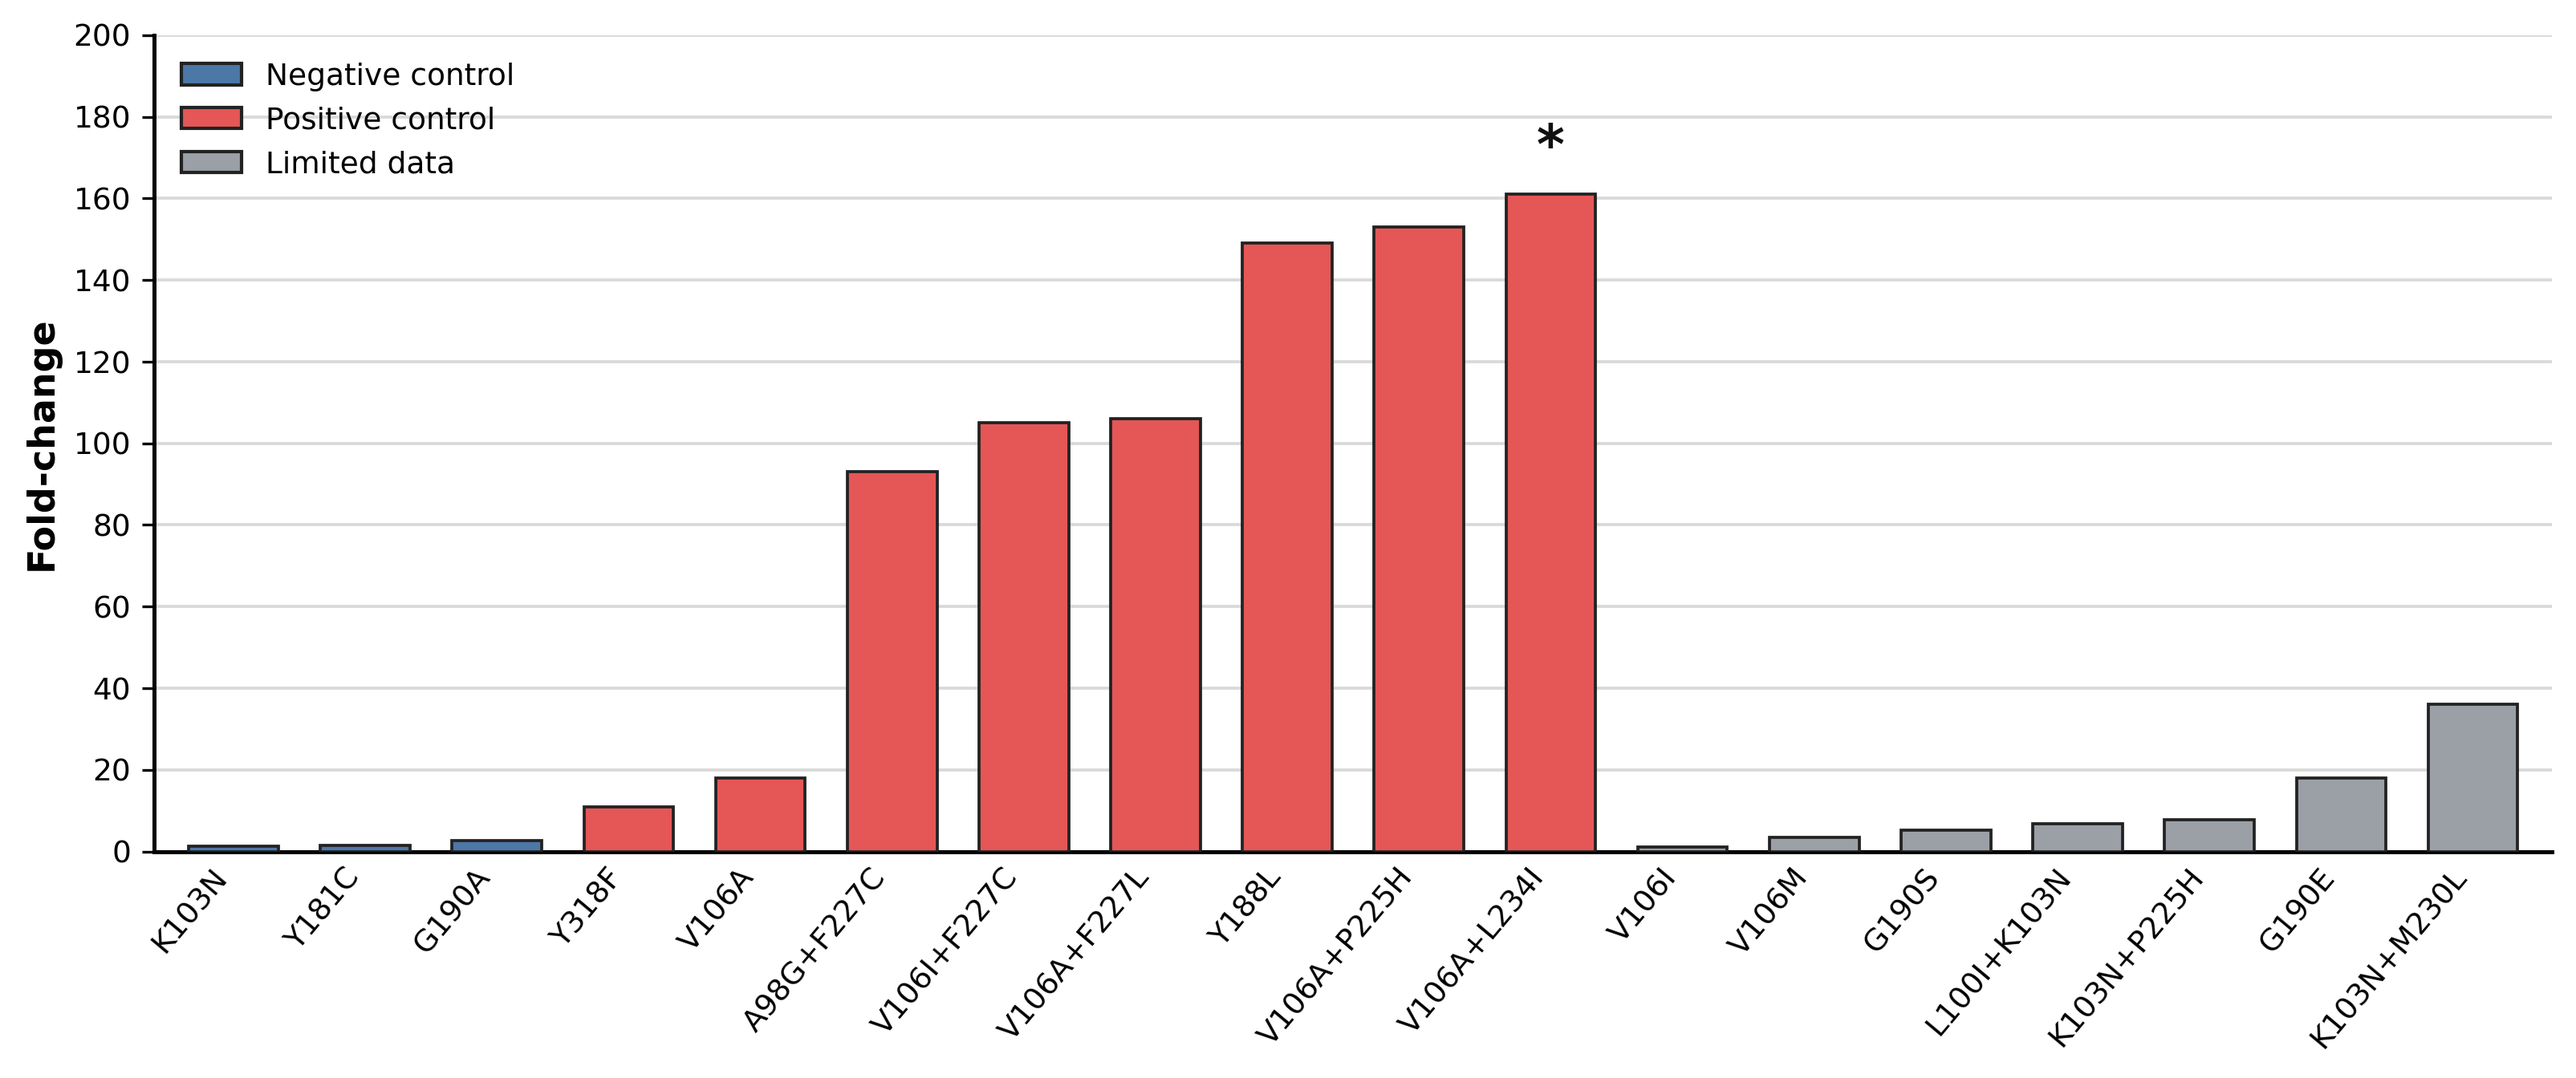
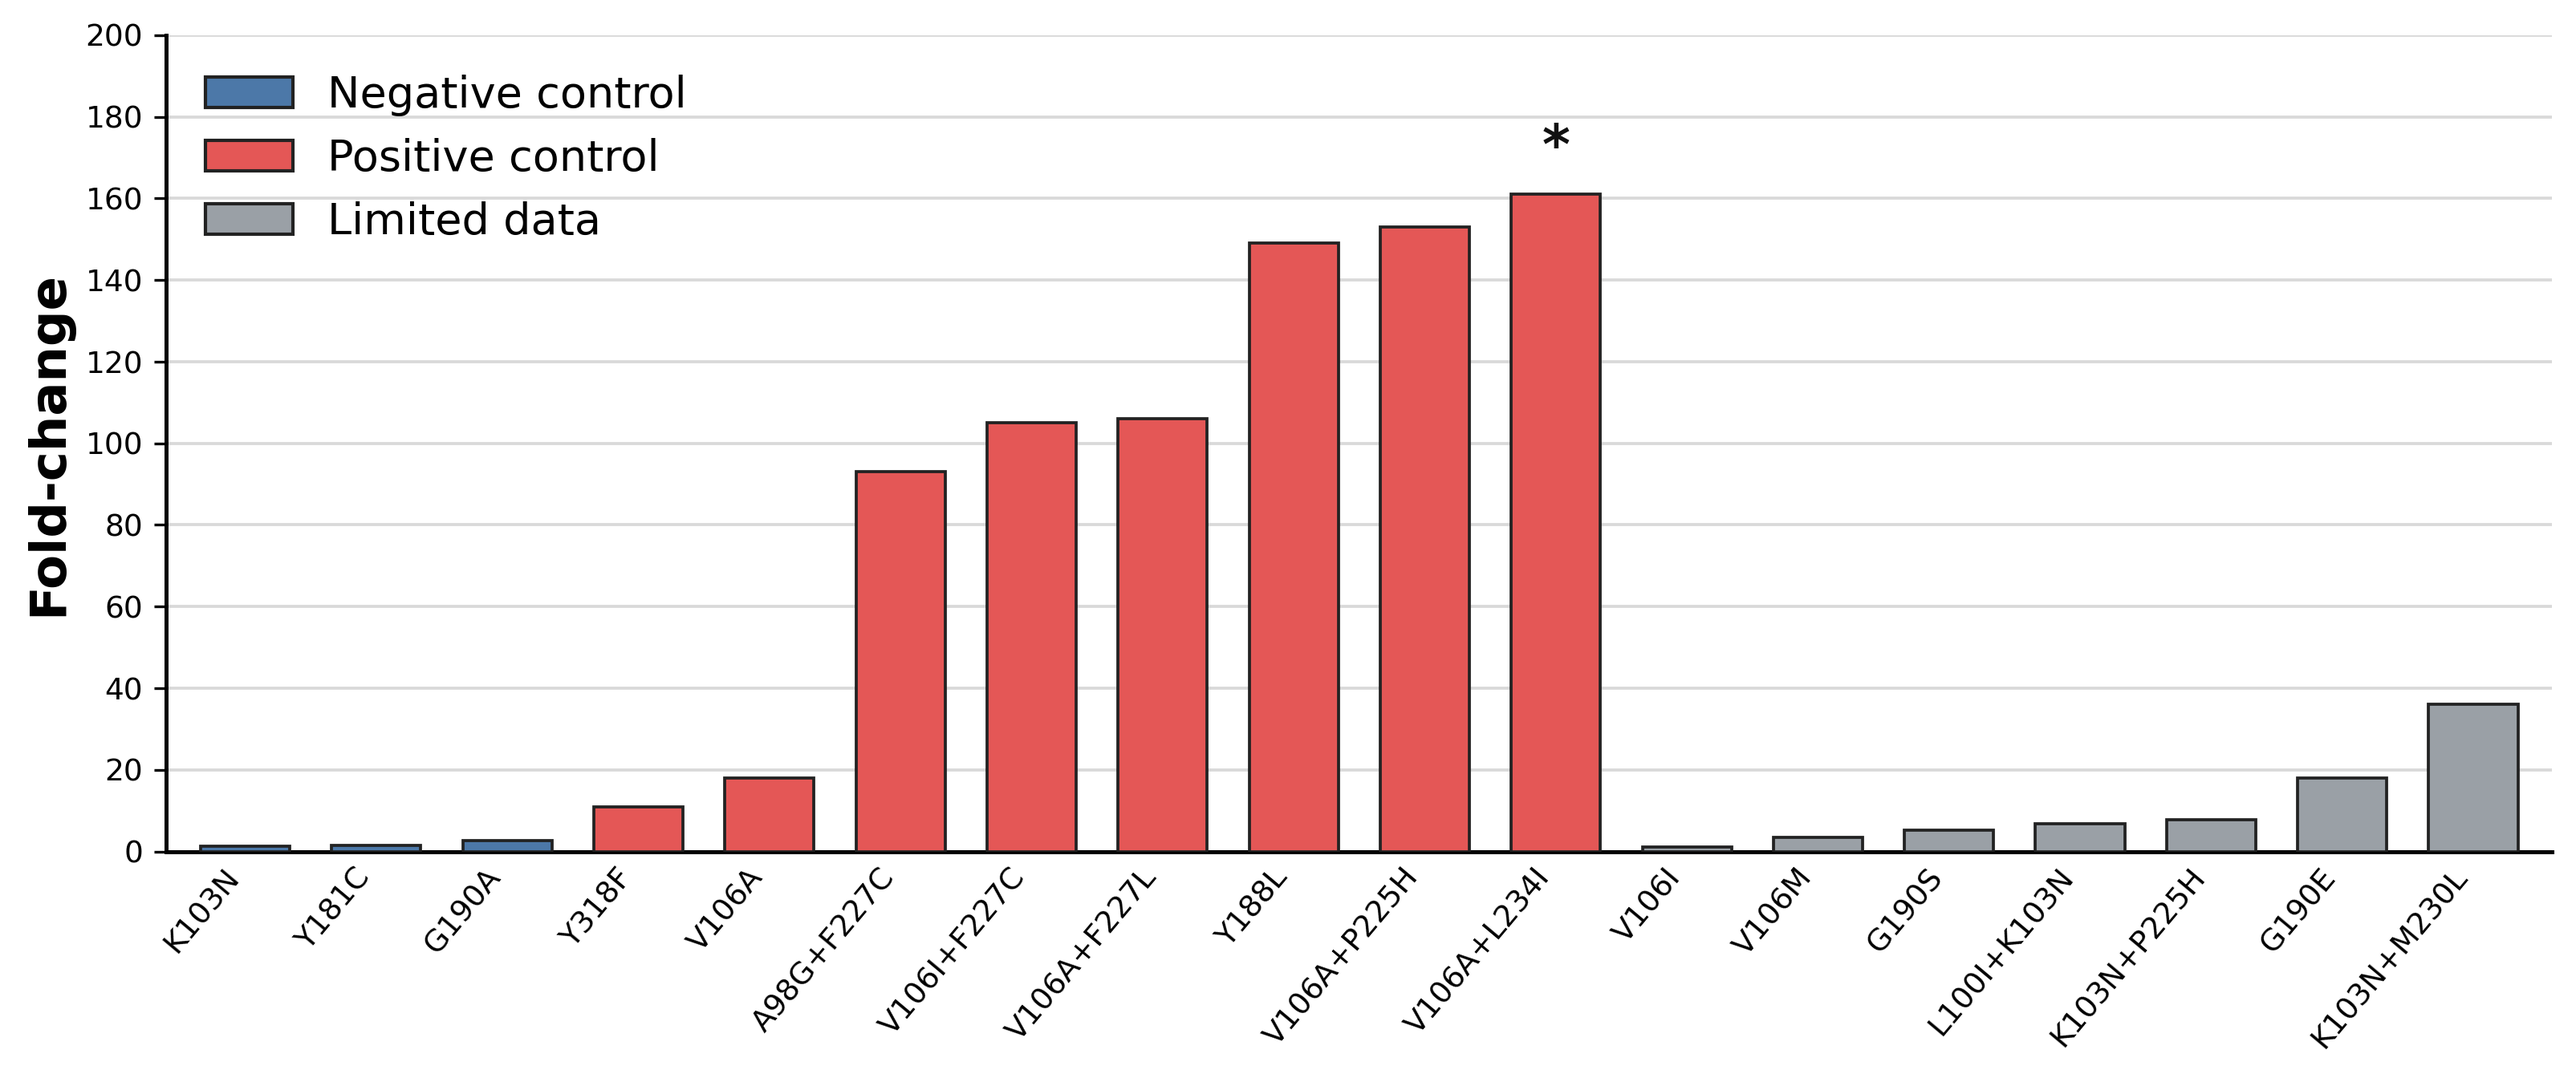
bump up font size

diff --git a/src/analysis/cli/plot_dor_susceptibility_bars.py b/src/analysis/cli/plot_dor_susceptibility_bars.py
@@ -177,7 +177,7 @@ def _plot(df, output_png: Path, *, star_mutation: str, dagger_mutation: str, tit
     ax.yaxis.grid(True, color="#d9d9d9", linewidth=0.9)
     ax.xaxis.grid(False)
 
-    ax.set_ylabel("Fold-change", fontsize=11, fontweight="bold")
+    ax.set_ylabel("Fold-change", fontsize=15, fontweight="bold")
     ax.set_xticks(x)
     ax.set_xticklabels(labels, rotation=50, ha="right", fontsize=9)
     ax.tick_params(axis="y", labelsize=9)
@@ -196,7 +196,7 @@ def _plot(df, output_png: Path, *, star_mutation: str, dagger_mutation: str, tit
         Patch(facecolor=CATEGORY_COLORS["Positive control"], edgecolor="#222222", label="Positive control"),
         Patch(facecolor=CATEGORY_COLORS["Test set"], edgecolor="#222222", label="Limited data"),
     ]
-    ax.legend(handles=legend_handles, loc="upper left", frameon=False, fontsize=9)
+    ax.legend(handles=legend_handles, loc="upper left", frameon=False, fontsize=13)
 
     annotations: dict[str, str] = {}
     if str(star_mutation).strip():
